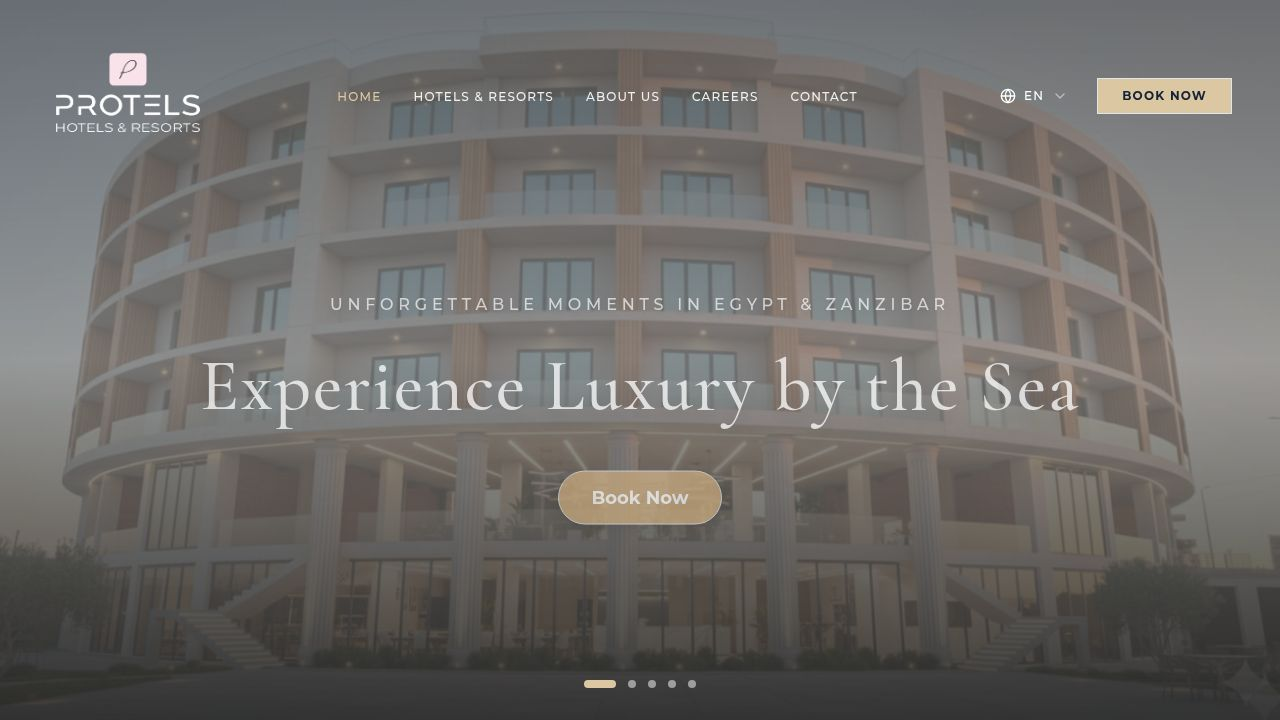
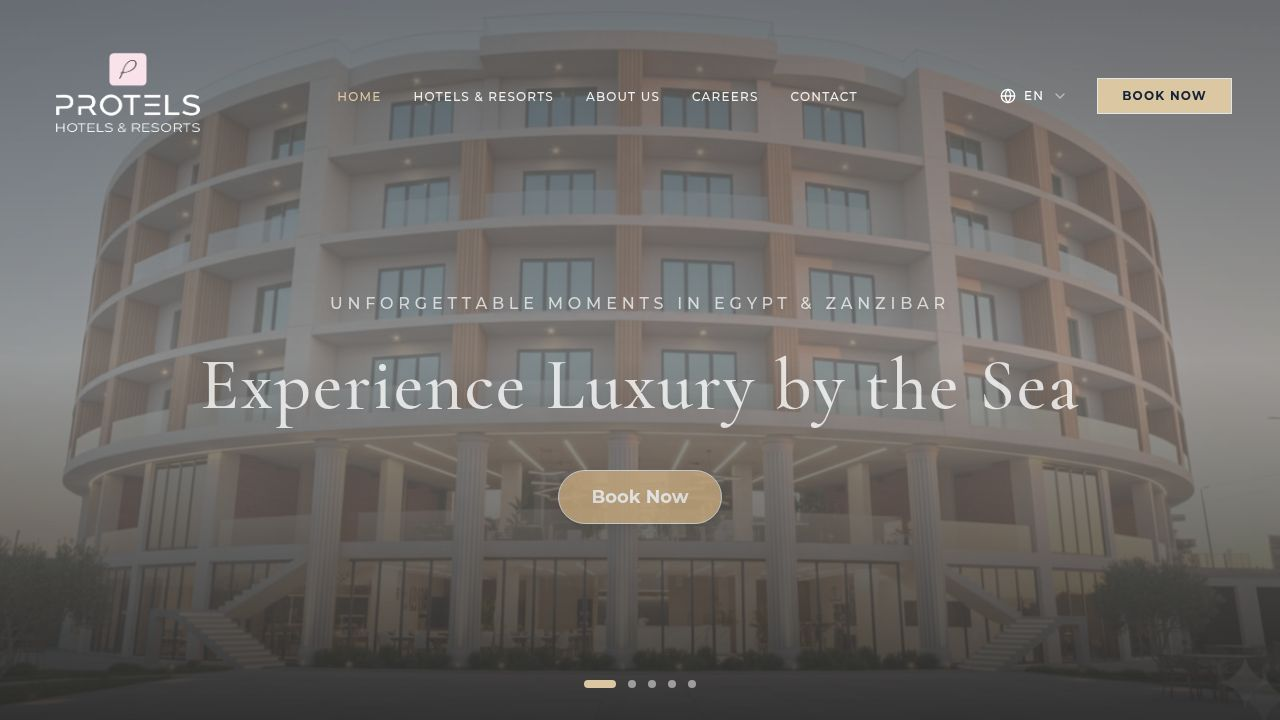
Add bcryptjs to build allowlist and improve server startup error handling
Bundles bcryptjs into production build and adds try-catch block to server startup in server/index.ts, along with updating script/build.ts to include bcryptjs in the allowlist.

Replit-Commit-Author: Agent
Replit-Commit-Session-Id: 0df9b665-ce86-4a16-b83b-2548816a92d7
Replit-Commit-Checkpoint-Type: full_checkpoint
Replit-Commit-Event-Id: 122d6657-ce06-4b0f-821d-5e05472e68fa
Replit-Commit-Screenshot-Url: https://storage.googleapis.com/screenshot-production-us-central1/e9c76381-6b15-4a15-b278-6d1a4f901ea6/0df9b665-ce86-4a16-b83b-2548816a92d7/4Qgd4FD
Replit-Helium-Checkpoint-Created: true

diff --git a/server/index.ts b/server/index.ts
@@ -60,44 +60,42 @@ app.use((req, res, next) => {
 });
 
 (async () => {
-  await registerRoutes(httpServer, app);
+  try {
+    await registerRoutes(httpServer, app);
 
-  app.use((err: any, _req: Request, res: Response, next: NextFunction) => {
-    const status = err.status || err.statusCode || 500;
-    const message = err.message || "Internal Server Error";
+    app.use((err: any, _req: Request, res: Response, next: NextFunction) => {
+      const status = err.status || err.statusCode || 500;
+      const message = err.message || "Internal Server Error";
 
-    console.error("Internal Server Error:", err);
+      console.error("Internal Server Error:", err);
 
-    if (res.headersSent) {
-      return next(err);
+      if (res.headersSent) {
+        return next(err);
+      }
+
+      return res.status(status).json({ message });
+    });
+
+    if (process.env.NODE_ENV === "production") {
+      serveStatic(app);
+    } else {
+      const { setupVite } = await import("./vite");
+      await setupVite(httpServer, app);
     }
 
-    return res.status(status).json({ message });
-  });
-
-  // importantly only setup vite in development and after
-  // setting up all the other routes so the catch-all route
-  // doesn't interfere with the other routes
-  if (process.env.NODE_ENV === "production") {
-    serveStatic(app);
-  } else {
-    const { setupVite } = await import("./vite");
-    await setupVite(httpServer, app);
+    const port = parseInt(process.env.PORT || "5000", 10);
+    httpServer.listen(
+      {
+        port,
+        host: "0.0.0.0",
+        reusePort: true,
+      },
+      () => {
+        log(`serving on port ${port}`);
+      },
+    );
+  } catch (err) {
+    console.error("Failed to start server:", err);
+    process.exit(1);
   }
-
-  // ALWAYS serve the app on the port specified in the environment variable PORT
-  // Other ports are firewalled. Default to 5000 if not specified.
-  // this serves both the API and the client.
-  // It is the only port that is not firewalled.
-  const port = parseInt(process.env.PORT || "5000", 10);
-  httpServer.listen(
-    {
-      port,
-      host: "0.0.0.0",
-      reusePort: true,
-    },
-    () => {
-      log(`serving on port ${port}`);
-    },
-  );
 })();

diff --git a/script/build.ts b/script/build.ts
@@ -7,6 +7,7 @@ import { rm, readFile } from "fs/promises";
 const allowlist = [
   "@google/generative-ai",
   "axios",
+  "bcryptjs",
   "connect-pg-simple",
   "cors",
   "date-fns",